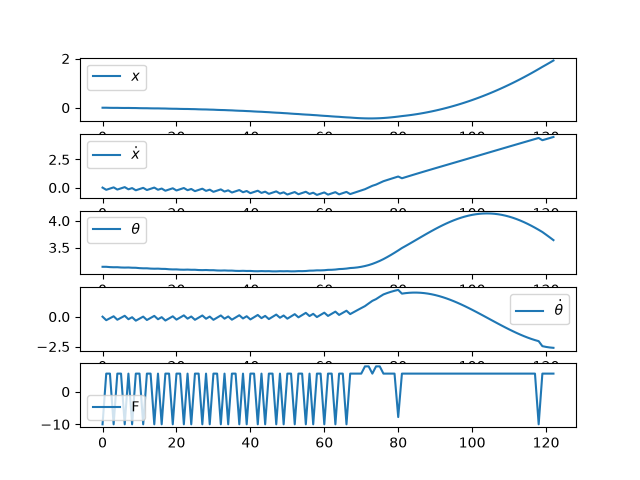
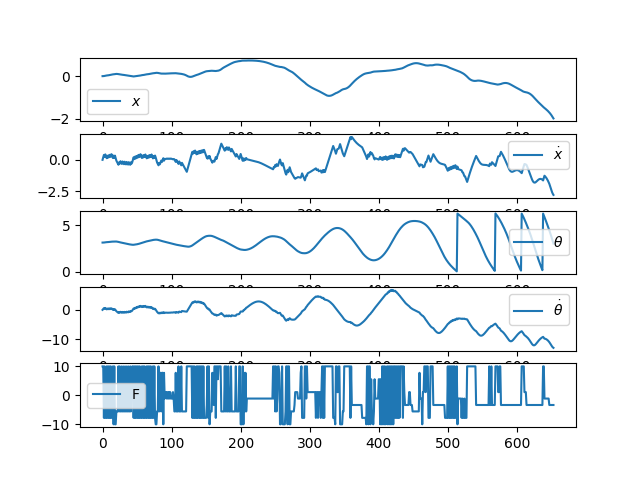
epsilon greedy updated

diff --git a/experiments/dqn_cart_pole.py b/experiments/dqn_cart_pole.py
@@ -9,7 +9,7 @@ seed              = 0
 torch.manual_seed(seed)
 
 # DQN Hyper-Parameters
-n_episodes         = 1000
+n_episodes         = 3000
 epsilon            = 1.0  # Probability for taking random actions
 action_dim         = 10   # Number of bins for the action space
 gamma              = 0.9  # Discount factor
@@ -47,7 +47,7 @@ replay_buffer = ReplayBuffer(size=replay_buffer_size,state_dim=env.state_dim)
 step = 1
 
 for episode in range(n_episodes):
-    print(f'Episode: {episode}')
+    print(f'Episode: {episode}, Epsilon: {agent.epsilon}')
     env.reset()
     state = env.current_state
 

diff --git a/agents/epsilon_greedy.py b/agents/epsilon_greedy.py
@@ -2,7 +2,7 @@ import numpy as np
 from agents.agent import Agent
 
 class epsilonGreedy(Agent):
-    def __init__(self, action_dim, seed, epsilon_max, epsilon_min=0.05, decay_rate=0.001, environment='GridWorld'):
+    def __init__(self, action_dim, seed, epsilon_max, epsilon_min=0.05, decay_rate=0.00001, environment='GridWorld'):
         super().__init__(seed=seed, action_dim=action_dim)
         self.epsilon_max = epsilon_max
         self.epsilon_min = epsilon_min
